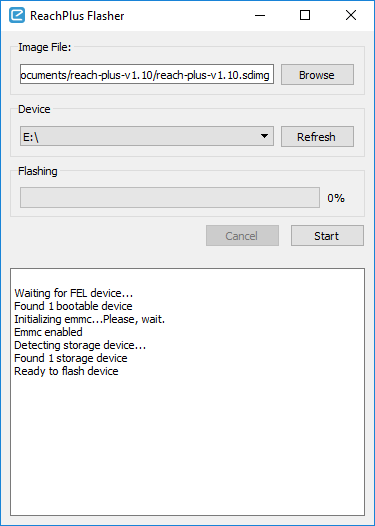
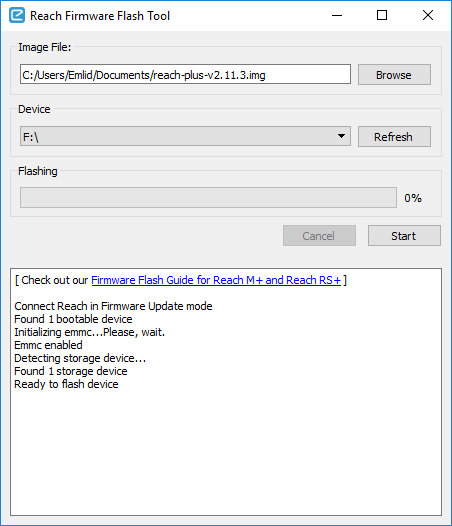
docs: common: reachview: firmware-reflashing.md: fix RS+ and M+ flash guide

diff --git a/docs/common/reachview/firmware-reflashing.md b/docs/common/reachview/firmware-reflashing.md
@@ -123,7 +123,7 @@ Then press '**install driver**' button.
 To flash:
 
 * Unzip downloaded image and Firmware Flash tool to **C:\Emlid**
-* Run reachplus_flasher.exe as an administrator
+* Run **Reach Firmware Flash Tool.exe** as an administrator
 * Connect Reach in Firmware Update mode to PC and wait until eMMC is initialized
 * In the "**Image File**" field select Reach image
 * Check disk letter in "**Device**" field to ensure you are flashing Reach, not another device
@@ -135,7 +135,7 @@ To flash:
 
 ## After flashing
 
-If flashing has been completed successfully you will see 'Firmware Update complete' message. The device will reboot. You may disconnect your Reach M+ or RS+ at this point.
+If flashing has been completed successfully you will see 'Device is rebooting...' message. You may disconnect your Reach M+ or RS+ at this point.
 
 The LEDs are off while device is rebooting. They will glow up approximately in 1 minute.
 
